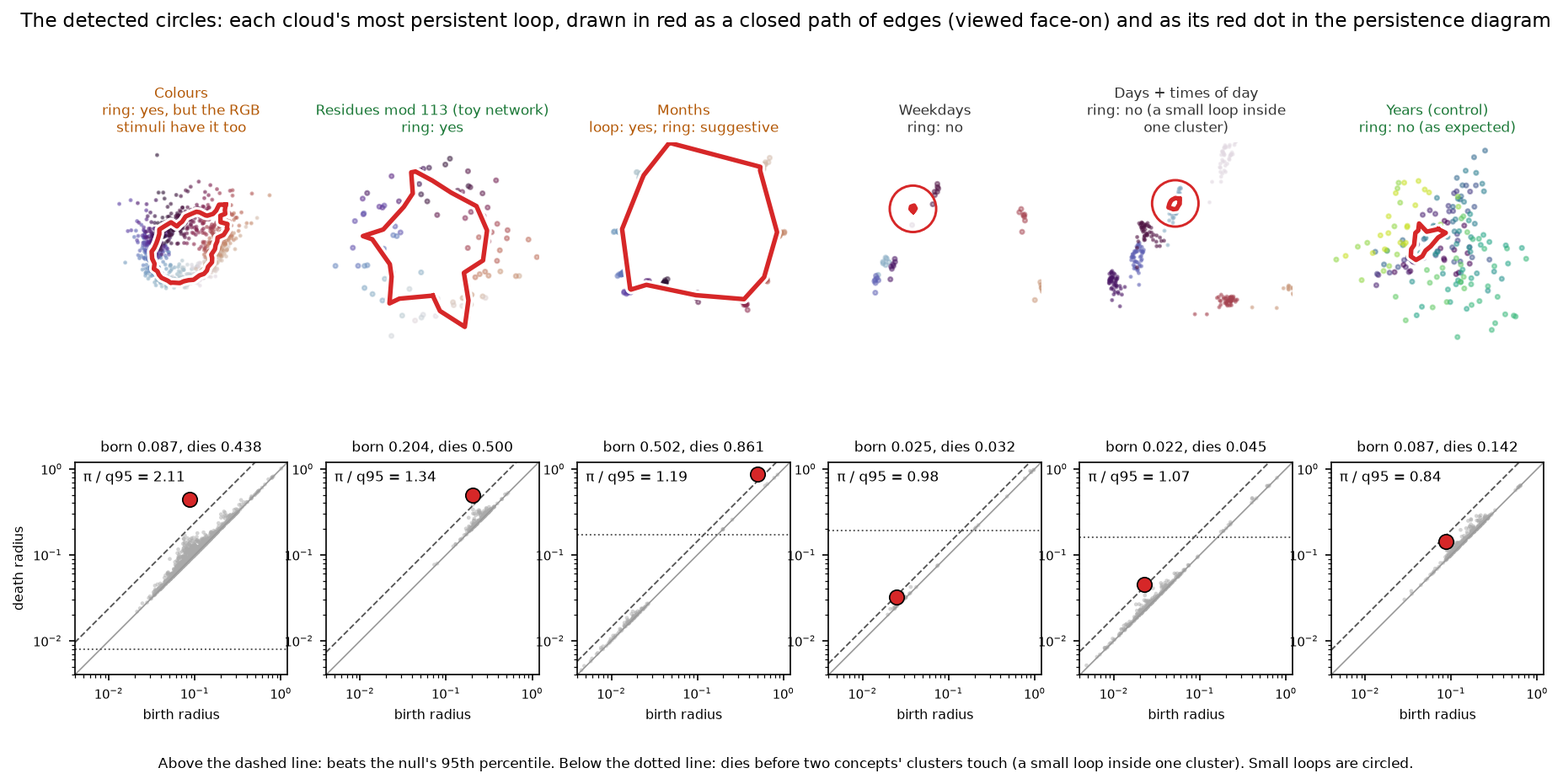
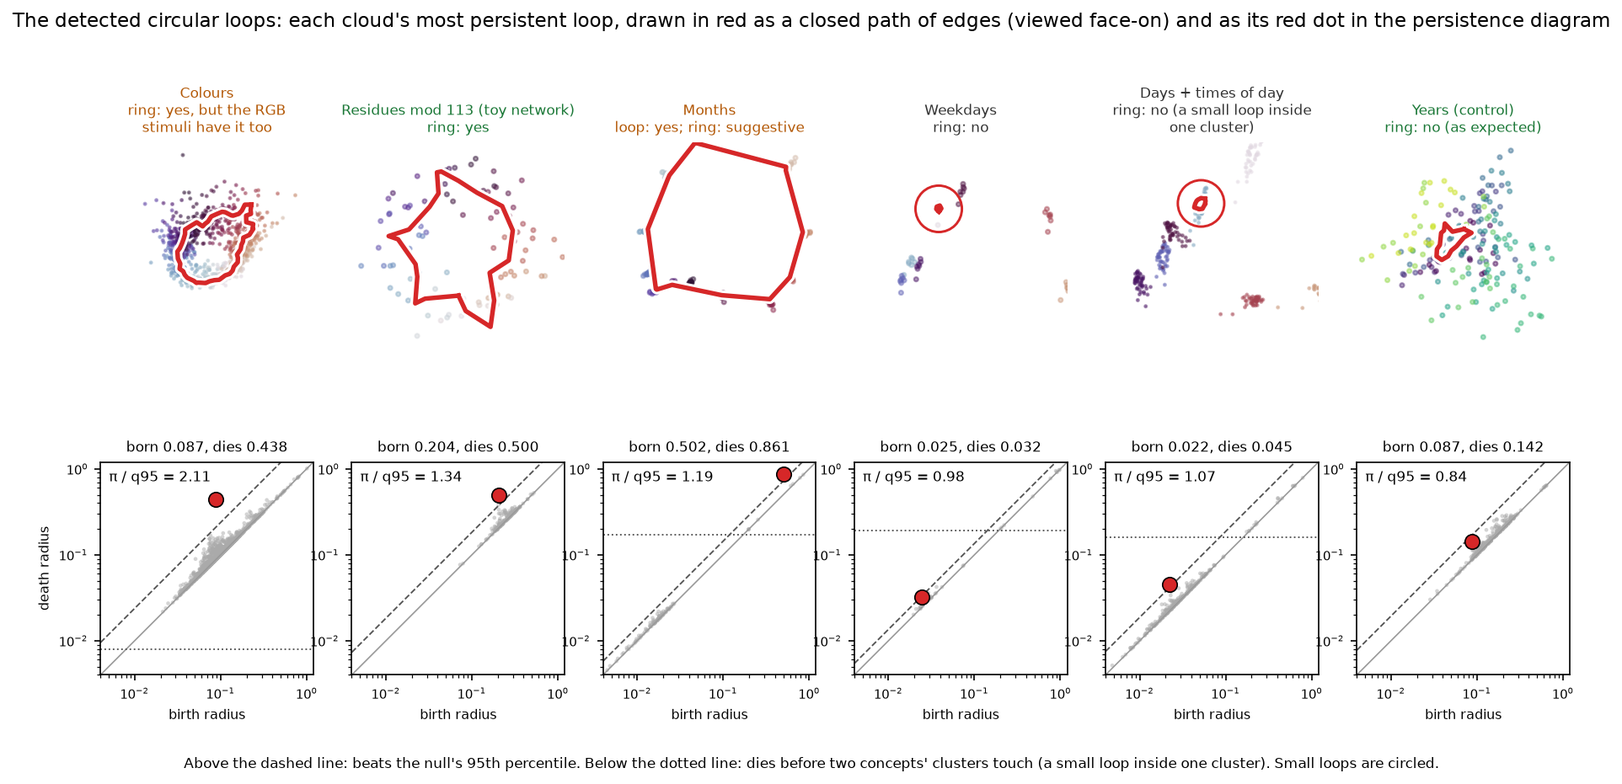
README: voids drawn explicitly like the detected loops (red shell with white halo, blue ball for the empty middle, small voids circled, red triangle in the diagram), placed right after the loops figure; 'detected circles' renamed 'detected circular loops'; glossary: the void's empty middle

diff --git a/src/neurotopo/report/figures.py b/src/neurotopo/report/figures.py
@@ -646,7 +646,7 @@ def anim_examples() -> None:
 
 
 def fig_detected_loops() -> None:
-    """The detected circles (README, near the top). For each example cloud, top: the cloud in its top-3 PCA
+    """The detected circular loops (README, near the top). For each example cloud, top: the cloud in its top-3 PCA
     coordinates with one closed path of edges carrying its most persistent loop (diagrams.alpha_h1_cycles) drawn
     in red, viewed face-on (camera along the normal of the path's best-fit plane, from an SVD of its vertices);
     a loop smaller than a tenth of the cloud is also circled so it can be found. Bottom: the persistence diagram
@@ -693,7 +693,7 @@ def fig_detected_loops() -> None:
         if j == 0:
             ap.set_ylabel("death radius", fontsize=7.5)
         ap.set_title(f"born {h1[0, 0]:.3f}, dies {h1[0, 1]:.3f}", fontsize=8)
-    fig.suptitle("The detected circles: each cloud's most persistent loop, drawn in red as a closed path of edges "
+    fig.suptitle("The detected circular loops: each cloud's most persistent loop, drawn in red as a closed path of edges "
                  "(viewed face-on) and as its red dot in the persistence diagram", fontsize=11)
     fig.text(0.5, 0.015, "Above the dashed line: beats the null's 95th percentile. Below the dotted line: dies before two "
              "concepts' clusters touch (a small loop inside one cluster). Small loops are circled.", ha="center", fontsize=8)
@@ -708,34 +708,48 @@ VOID_EXAMPLES = [("R3_tms_n6", "toy model, 6 features"), ("R3_tms_n8", "toy mode
 
 
 def fig_detected_voids() -> None:
-    """The detected voids (README, after the detected circles). For each cloud of VOID_EXAMPLES, top: the cloud in its
-    top-3 PCA coordinates with the shell of its most persistent void (diagrams.alpha_h2_voids, via examples.replay),
-    a closed surface of triangles drawn see-through in purple (points faded in dense clouds so it shows). Bottom: the
-    void (H2) persistence diagram on linear axes zoomed to the cloud's voids (void ratios are small, 1-1.5, so a fixed
-    range would squeeze every void onto the diagonal), with that void's triangle and the null's 95th-percentile line.
-    Title colour: green if the void survives Benjamini-Hochberg over the 44 void tests, orange if only p < 0.05,
-    black otherwise. Numbers: results/exp2/invariants.csv."""
-    from mpl_toolkits.mplot3d.art3d import Poly3DCollection
+    """The detected voids (README, right after the detected circular loops, in the same style). For each cloud of
+    VOID_EXAMPLES, top: the cloud in its top-3 PCA coordinates with its most persistent void drawn explicitly: the shell
+    (diagrams.alpha_h2_voids, via examples.replay), a closed surface of triangles, as red edges with a white halo over
+    faint red faces, and inside it the void's empty middle as a blue ball: centred on the circumcentre of the
+    tetrahedron that fills the void, radius death - birth, the part of the void the balls of the birth radius do not
+    cover (no point is closer to the centre than the death radius). A void smaller than a quarter of the cloud is
+    circled, and points are faded in dense clouds. Bottom: the void (H2) persistence diagram on linear axes zoomed to
+    the cloud's voids (void ratios are small, 1-1.5, so a fixed range would squeeze every void onto the diagonal),
+    with that void's red triangle and the null's 95th-percentile line. Title colour: green if the void survives
+    Benjamini-Hochberg over the 44 void tests, orange if only p < 0.05, black otherwise. Numbers:
+    results/exp2/invariants.csv. mplot3d: Poly3DCollection, Line3DCollection, plot_surface
+    (https://matplotlib.org/stable/api/toolkits/mplot3d.html)."""
+    from itertools import combinations
+    from mpl_toolkits.mplot3d.art3d import Line3DCollection, Poly3DCollection
     from neurotopo.experiments import realdata
     from neurotopo.report.examples import replay
     inv = pd.read_csv(config.path("results") / "exp2" / "invariants.csv").set_index("id")
-    purple = "#7b3294"
-    fig = plt.figure(figsize=(14, 6.4))
-    gs = fig.add_gridspec(2, len(VOID_EXAMPLES), height_ratios=[1.3, 1], hspace=0.2, wspace=0.22, top=0.86, bottom=0.12)
+    red, blue = "#d62728", "#4393c3"                                     # red as the detected loops; blue = empty space
+    u, v = np.meshgrid(np.linspace(0, 2 * np.pi, 28), np.linspace(0, np.pi, 14))
+    ball = np.stack([np.cos(u) * np.sin(v), np.sin(u) * np.sin(v), np.cos(v)])   # unit sphere, (3, 14, 28)
+    fig = plt.figure(figsize=(14, 6.6))
+    gs = fig.add_gridspec(2, len(VOID_EXAMPLES), height_ratios=[1.35, 1], hspace=0.2, wspace=0.22, top=0.86, bottom=0.13)
     for j, (d, label) in enumerate(VOID_EXAMPLES):
         y, row = realdata.cloud(d)["y"], inv.loc[d]
         rp = replay(y)                                                   # voids sorted by pi: index 0 is the top void
-        h2, shell = rp["h2"], rp["shells"][0]
+        h2, shell, centre = rp["h2"], rp["shells"][0], rp["void_centres"][0]
         p, q = float(row["p_top_void"]), float(row["q_top_void"])
         verdict, colour = ((f"void: yes (q = {q:.3f})", "#1b7837") if q < 0.05 else
                            (f"p = {p:.3f}, but q = {q:.2f} after BH", "#e08214") if p < 0.05 else
                            (f"void: no (p = {p:.2f})", "#222222"))
-        dense = len(y) > 300
+        dense, corners = len(y) > 300, y[np.unique(shell)]
+        edges = np.array(sorted({tuple(sorted(e)) for t in shell.tolist() for e in combinations(t, 2)}))
         a3 = fig.add_subplot(gs[0, j], projection="3d")
-        a3.computed_zorder = False                                       # draw the shell over the points
-        a3.scatter(*y.T, color="#333333", s=2 if dense else 14, alpha=0.15 if dense else 0.8, depthshade=False, zorder=1)
-        a3.add_collection3d(Poly3DCollection(y[shell], facecolors=purple, edgecolors="#40004b", linewidths=0.4,
-                                             alpha=0.35, zorder=2))     # (F, 3, 3): each row's 3 corners
+        a3.computed_zorder = False                                       # draw in call order: points, ball, shell
+        a3.scatter(*y.T, color="#333333", s=2 if dense else 14, alpha=0.15 if dense else 0.6, depthshade=False, zorder=1)
+        a3.plot_surface(*(centre[:, None, None] + (h2[0, 1] - h2[0, 0]) * ball), color=blue, alpha=0.9, shade=False,
+                        linewidth=0, zorder=2)                           # the empty middle, radius death - birth
+        a3.add_collection3d(Poly3DCollection(y[shell], facecolors=red, edgecolors="none", alpha=0.1, zorder=3))
+        a3.add_collection3d(Line3DCollection(y[edges], colors="white", linewidths=3.0, zorder=4))   # halo
+        a3.add_collection3d(Line3DCollection(y[edges], colors=red, linewidths=1.3, zorder=5))
+        if np.ptp(corners, axis=0).max() < 0.25 * np.ptp(y, axis=0).max():   # small void: circle it
+            a3.scatter(*corners.mean(0), s=900, facecolors="none", edgecolors=red, linewidths=1.4, zorder=6)
         lim = float(np.linalg.norm(y, axis=1).max())                    # largest radius: no corner is clipped
         a3.set_xlim(-lim, lim)
         a3.set_ylim(-lim, lim)
@@ -749,7 +763,7 @@ def fig_detected_voids() -> None:
         ap.plot([lo, hi], [lo, hi], color="#999", lw=0.8)
         ap.plot([lo, hi / q95], [lo * q95, hi], color="#555", ls="--", lw=0.9)
         ap.scatter(h2[:, 0], h2[:, 1], s=5, marker="^", color="#aaaaaa", alpha=0.5, edgecolors="none")
-        ap.scatter([h2[0, 0]], [h2[0, 1]], s=80, marker="^", color=purple, edgecolors="k", linewidths=0.8, zorder=4)
+        ap.scatter([h2[0, 0]], [h2[0, 1]], s=80, marker="^", color=red, edgecolors="k", linewidths=0.8, zorder=4)
         kept = int(np.floor(100 * row["void_freq"] + 0.5))             # half-up, as numbers.py rounds the README's %
         ap.text(0.96, 0.04, f"π / q95 = {row['top_pi2'] / q95:.2f}\nkept in {kept}% of subsamples",
                 transform=ap.transAxes, fontsize=7.5, va="bottom", ha="right")   # below the diagonal: always empty
@@ -761,9 +775,11 @@ def fig_detected_voids() -> None:
         if j == 0:
             ap.set_ylabel("death radius", fontsize=7.5)
         ap.set_title(f"{len(shell)} faces; born {h2[0, 0]:.3f}, dies {h2[0, 1]:.3f}", fontsize=8)
-    fig.suptitle("The detected voids: each cloud's most persistent void, drawn as its shell (a closed surface of "
-                 "triangles) and as its purple triangle in the void persistence diagram", fontsize=11)
-    fig.text(0.5, 0.015, "Above the dashed line: beats the null's 95th percentile (p < 0.05). q: Benjamini-Hochberg over "
-             "the 44 void tests. Subsamples: 200 random 80% subsamples. Diagram axes are zoomed per cloud.",
-             ha="center", fontsize=8)
+    fig.suptitle("The detected voids: each cloud's most persistent void, drawn as its shell (red, a closed surface of "
+                 "triangles) around its empty middle (blue)\nand as its red triangle in the void persistence diagram",
+                 fontsize=11)
+    fig.text(0.5, 0.015, "Blue ball: radius death - birth around the void's centre, still empty when the void closes. "
+             "Above the dashed line: beats the null's 95th percentile (p < 0.05).\nq: Benjamini-Hochberg over the 44 "
+             "void tests. Subsamples: 200 random 80% subsamples. Diagram axes are zoomed per cloud. Small voids are "
+             "circled.", ha="center", fontsize=8)
     save(fig, "fig_detected_voids")

diff --git a/README.template.md b/README.template.md
@@ -14,13 +14,28 @@ For each concept we ask two questions:
 
 A loop alone does not prove a hole. The loop test also flags many hole-free shapes, such as curved sheets and caps ([third audit, D9](reports/exp8_audit3.md)). So we call a loop a **ring** only when the concept also goes around it once.
 
-![The detected circles: each example cloud's most persistent loop drawn as a red ring, and its dot in the persistence diagram](docs/figures/fig_detected_loops.png)
+![The detected circular loops: each example cloud's most persistent loop drawn as a red ring, and its dot in the persistence diagram](docs/figures/fig_detected_loops.png)
 
-*The detected circles.* For each example cloud, the red ring is the cloud's most persistent loop: one closed path of edges that carries it ([representative loop](docs/glossary.md#representative-loop)), seen face-on.
+*The detected circular loops.* For each example cloud, the red ring is the cloud's most persistent loop: one closed path of edges that carries it ([representative loop](docs/glossary.md#representative-loop)), seen face-on.
 - **Bottom:** the same loop as a red dot (birth radius, death radius) in the persistence diagram.
 - **Colours, residues and months:** a large ring that runs through the concepts.
 - **Weekdays and days with times:** the most persistent loop is a small loop inside one cluster (circled). It dies below the dotted line, before two days' clusters touch.
 - **Years:** a small loop that does not beat the null (below the dashed line).
+
+![The detected voids: each cloud's most persistent void drawn as a red shell around its empty middle (a blue ball), and its triangle in the void persistence diagram](docs/figures/fig_detected_voids.png)
+
+*The detected voids*, drawn the same way. A void is an empty region walled in by a closed surface, like the inside of a hollow ball. It is the next kind of hole after a loop (an H2 bar instead of an H1 bar).
+- **Top:** the red edges are the shell of each cloud's most persistent void: one closed surface of triangles that carries it ([representative void](docs/glossary.md#representative-void)).
+  - The blue ball is the void's empty middle. No point is closer to its centre than the void's death radius, so when the void closes (at its birth radius) a ball of radius death − birth there is still not covered.
+- **Bottom:** the same void as a red triangle in the void persistence diagram (axes zoomed per cloud).
+- **Toy models of superposition** ([Elhage et al. 2022](https://transformer-circuits.pub/2022/toy_model/index.html)), green: each point is one feature's direction in a 3-dimensional hidden layer.
+  - They are the only {{exp2.n_void_q05}} of the 44 clouds whose most persistent void survives Benjamini–Hochberg (q = {{exp2.tmsn6.q_void:3}}). The features sit on or near the corners of a polytope, which walls in a void.
+  - With 6 features the shell is the 8 faces of an octahedron. Its persistence ratio π = {{exp2.tmsn6.top_pi2:3}} is close to that of a regular octahedron, √(3/2) ≈ 1.225.
+  - The voids of 8 and 20 features come back in {{exp2.tmsn8.void_freq_pct}}% and {{exp2.tmsn20.void_freq_pct}}% of random 80% subsamples. With 6 features a subsample keeps only 5 of the 6 corners, and the void came back in {{exp2.tmsn6.void_freq_pct}}% of them.
+  - These clouds have only 6–20 points and were [preregistered](reports/preregistration.md) as exploratory, descriptive sets.
+- **GPT-2 positions at random init**, orange: a small void (circled) with p = {{exp2.wposinit.p_top_void}}, but q = {{exp2.wposinit.q_void:2}} after the correction, and it comes back in only {{exp2.wposinit.void_freq_pct}}% of subsamples. We read it as a chance hit among 44 tests.
+- **Trained GPT-2 positions**, black: the shape fitter calls this cloud a closed sphere, which has a void, but the data has none. Its most persistent void is a thin one (π = {{exp2.wpos.top_pi2:2}}, below the null's 95th percentile of {{exp2.wpos.null_q95_pi2:2}}). The positions trace a spiral curve, not a surface.
+- **None of the other {{exp2.trained_n}} trained-model clouds** (the language-model concepts and the grokking network) has a significant void, even before correction ({{exp2.trained_voids}} at p < 0.05).
 - Explore any loop or void of any of the 44 clouds in the [explorer](https://burnycoder.github.io/topology-of-neural-geometry-in-llm-mechanistic-interpretability/): set the radius, then pick a loop or void, or click its marker. Voids are drawn as see-through shells.
 
 ![Positive and negative examples](docs/figures/fig_examples.png)
@@ -42,19 +57,6 @@ A loop alone does not prove a hole. The loop test also flags many hole-free shap
   - Dots above the dashed red line beat the null's 95th percentile.
   - Dots below the dotted line die before two concepts' clusters touch, so they lie inside one cluster.
 - **Try it yourself** with the radius slider in the [explorer](https://burnycoder.github.io/topology-of-neural-geometry-in-llm-mechanistic-interpretability/) (all 44 clouds, with their loops and voids; you can also show one at a time), or, together with the null distribution and the travel around the hole, on the [examples page](https://burnycoder.github.io/topology-of-neural-geometry-in-llm-mechanistic-interpretability/examples.html). Every term is defined in [docs/glossary.md](docs/glossary.md), which the explorer also shows.
-
-![The detected voids: each cloud's most persistent void drawn as a purple shell, and its triangle in the void persistence diagram](docs/figures/fig_detected_voids.png)
-
-*The detected voids.* A void is an empty region walled in by a closed surface, like the inside of a hollow ball. It is the next kind of hole after a loop (an H2 bar instead of an H1 bar). The purple surface is the shell of each cloud's most persistent void ([representative void](docs/glossary.md#representative-void)).
-- **Toy models of superposition** ([Elhage et al. 2022](https://transformer-circuits.pub/2022/toy_model/index.html)), green: each point is one feature's direction in a 3-dimensional hidden layer.
-  - They are the only {{exp2.n_void_q05}} of the 44 clouds whose most persistent void survives Benjamini–Hochberg (q = {{exp2.tmsn6.q_void:3}}). The features sit on or near the corners of a polytope, which walls in a void.
-  - With 6 features the shell is the 8 faces of an octahedron. Its persistence ratio π = {{exp2.tmsn6.top_pi2:3}} is close to that of a regular octahedron, √(3/2) ≈ 1.225.
-  - The voids of 8 and 20 features come back in {{exp2.tmsn8.void_freq_pct}}% and {{exp2.tmsn20.void_freq_pct}}% of random 80% subsamples. With 6 features a subsample keeps only 5 of the 6 corners, and the void came back in {{exp2.tmsn6.void_freq_pct}}% of them.
-  - These clouds have only 6–20 points and were [preregistered](reports/preregistration.md) as exploratory, descriptive sets.
-- **GPT-2 positions at random init**, orange: a small void with p = {{exp2.wposinit.p_top_void}}, but q = {{exp2.wposinit.q_void:2}} after the correction, and it comes back in only {{exp2.wposinit.void_freq_pct}}% of subsamples. We read it as a chance hit among 44 tests.
-- **Trained GPT-2 positions**, black: the shape fitter calls this cloud a closed sphere, which has a void, but the data has none. Its most persistent void has π = {{exp2.wpos.top_pi2:2}}, below the null's 95th percentile ({{exp2.wpos.null_q95_pi2:2}}). The positions trace a spiral curve, not a surface.
-- **None of the other {{exp2.trained_n}} trained-model clouds** (the language-model concepts and the grokking network) has a significant void, even before correction ({{exp2.trained_voids}} at p < 0.05).
-- Every void of every cloud can be explored in the [explorer](https://burnycoder.github.io/topology-of-neural-geometry-in-llm-mechanistic-interpretability/).
 
 **What worked**
 - **Colours form a ring that hue goes around once, but the stimuli already have that ring.**

diff --git a/README.md b/README.md
@@ -14,13 +14,28 @@ For each concept we ask two questions:
 
 A loop alone does not prove a hole. The loop test also flags many hole-free shapes, such as curved sheets and caps ([third audit, D9](reports/exp8_audit3.md)). So we call a loop a **ring** only when the concept also goes around it once.
 
-![The detected circles: each example cloud's most persistent loop drawn as a red ring, and its dot in the persistence diagram](docs/figures/fig_detected_loops.png)
+![The detected circular loops: each example cloud's most persistent loop drawn as a red ring, and its dot in the persistence diagram](docs/figures/fig_detected_loops.png)
 
-*The detected circles.* For each example cloud, the red ring is the cloud's most persistent loop: one closed path of edges that carries it ([representative loop](docs/glossary.md#representative-loop)), seen face-on.
+*The detected circular loops.* For each example cloud, the red ring is the cloud's most persistent loop: one closed path of edges that carries it ([representative loop](docs/glossary.md#representative-loop)), seen face-on.
 - **Bottom:** the same loop as a red dot (birth radius, death radius) in the persistence diagram.
 - **Colours, residues and months:** a large ring that runs through the concepts.
 - **Weekdays and days with times:** the most persistent loop is a small loop inside one cluster (circled). It dies below the dotted line, before two days' clusters touch.
 - **Years:** a small loop that does not beat the null (below the dashed line).
+
+![The detected voids: each cloud's most persistent void drawn as a red shell around its empty middle (a blue ball), and its triangle in the void persistence diagram](docs/figures/fig_detected_voids.png)
+
+*The detected voids*, drawn the same way. A void is an empty region walled in by a closed surface, like the inside of a hollow ball. It is the next kind of hole after a loop (an H2 bar instead of an H1 bar).
+- **Top:** the red edges are the shell of each cloud's most persistent void: one closed surface of triangles that carries it ([representative void](docs/glossary.md#representative-void)).
+  - The blue ball is the void's empty middle. No point is closer to its centre than the void's death radius, so when the void closes (at its birth radius) a ball of radius death − birth there is still not covered.
+- **Bottom:** the same void as a red triangle in the void persistence diagram (axes zoomed per cloud).
+- **Toy models of superposition** ([Elhage et al. 2022](https://transformer-circuits.pub/2022/toy_model/index.html)), green: each point is one feature's direction in a 3-dimensional hidden layer.
+  - They are the only 3 of the 44 clouds whose most persistent void survives Benjamini–Hochberg (q = 0.015). The features sit on or near the corners of a polytope, which walls in a void.
+  - With 6 features the shell is the 8 faces of an octahedron. Its persistence ratio π = 1.224 is close to that of a regular octahedron, √(3/2) ≈ 1.225.
+  - The voids of 8 and 20 features come back in 69% and 77% of random 80% subsamples. With 6 features a subsample keeps only 5 of the 6 corners, and the void came back in 0% of them.
+  - These clouds have only 6–20 points and were [preregistered](reports/preregistration.md) as exploratory, descriptive sets.
+- **GPT-2 positions at random init**, orange: a small void (circled) with p = 0.020, but q = 0.18 after the correction, and it comes back in only 1% of subsamples. We read it as a chance hit among 44 tests.
+- **Trained GPT-2 positions**, black: the shape fitter calls this cloud a closed sphere, which has a void, but the data has none. Its most persistent void is a thin one (π = 1.02, below the null's 95th percentile of 1.39). The positions trace a spiral curve, not a surface.
+- **None of the other 14 trained-model clouds** (the language-model concepts and the grokking network) has a significant void, even before correction (0 at p < 0.05).
 - Explore any loop or void of any of the 44 clouds in the [explorer](https://burnycoder.github.io/topology-of-neural-geometry-in-llm-mechanistic-interpretability/): set the radius, then pick a loop or void, or click its marker. Voids are drawn as see-through shells.
 
 ![Positive and negative examples](docs/figures/fig_examples.png)
@@ -42,19 +57,6 @@ A loop alone does not prove a hole. The loop test also flags many hole-free shap
   - Dots above the dashed red line beat the null's 95th percentile.
   - Dots below the dotted line die before two concepts' clusters touch, so they lie inside one cluster.
 - **Try it yourself** with the radius slider in the [explorer](https://burnycoder.github.io/topology-of-neural-geometry-in-llm-mechanistic-interpretability/) (all 44 clouds, with their loops and voids; you can also show one at a time), or, together with the null distribution and the travel around the hole, on the [examples page](https://burnycoder.github.io/topology-of-neural-geometry-in-llm-mechanistic-interpretability/examples.html). Every term is defined in [docs/glossary.md](docs/glossary.md), which the explorer also shows.
-
-![The detected voids: each cloud's most persistent void drawn as a purple shell, and its triangle in the void persistence diagram](docs/figures/fig_detected_voids.png)
-
-*The detected voids.* A void is an empty region walled in by a closed surface, like the inside of a hollow ball. It is the next kind of hole after a loop (an H2 bar instead of an H1 bar). The purple surface is the shell of each cloud's most persistent void ([representative void](docs/glossary.md#representative-void)).
-- **Toy models of superposition** ([Elhage et al. 2022](https://transformer-circuits.pub/2022/toy_model/index.html)), green: each point is one feature's direction in a 3-dimensional hidden layer.
-  - They are the only 3 of the 44 clouds whose most persistent void survives Benjamini–Hochberg (q = 0.015). The features sit on or near the corners of a polytope, which walls in a void.
-  - With 6 features the shell is the 8 faces of an octahedron. Its persistence ratio π = 1.224 is close to that of a regular octahedron, √(3/2) ≈ 1.225.
-  - The voids of 8 and 20 features come back in 69% and 77% of random 80% subsamples. With 6 features a subsample keeps only 5 of the 6 corners, and the void came back in 0% of them.
-  - These clouds have only 6–20 points and were [preregistered](reports/preregistration.md) as exploratory, descriptive sets.
-- **GPT-2 positions at random init**, orange: a small void with p = 0.020, but q = 0.18 after the correction, and it comes back in only 1% of subsamples. We read it as a chance hit among 44 tests.
-- **Trained GPT-2 positions**, black: the shape fitter calls this cloud a closed sphere, which has a void, but the data has none. Its most persistent void has π = 1.02, below the null's 95th percentile (1.39). The positions trace a spiral curve, not a surface.
-- **None of the other 14 trained-model clouds** (the language-model concepts and the grokking network) has a significant void, even before correction (0 at p < 0.05).
-- Every void of every cloud can be explored in the [explorer](https://burnycoder.github.io/topology-of-neural-geometry-in-llm-mechanistic-interpretability/).
 
 **What worked**
 - **Colours form a ring that hue goes around once, but the stimuli already have that ring.**

diff --git a/docs/glossary.md b/docs/glossary.md
@@ -106,6 +106,7 @@ One closed path of edges that carries a given loop. The site and the README anim
 One closed surface of triangles that encloses a given void (an H2 bar). The explorer draws it as a see-through shell in the void's own colour while the void is alive, so each triangle in the persistence diagram can be matched with a shell in the cloud.
 - In ℝ³ a void is an empty region of space walled in by the complex (Alexander duality; Edelsbrunner & Harer 2010, *Computational Topology*, ch. V). The region is found just after the triangle that closes the void enters: start in the tetrahedron whose entry fills the void (both come from GUDHI's persistence pairs) and move to neighbouring tetrahedra through triangles that have not entered yet. The triangles where this stops are the shell.
 - Every shell triangle is in the complex when the void is born, and the shell is filled in exactly when that tetrahedron enters, so it carries the void for its whole bar.
+- **The void's empty middle** (the blue ball in the README's void figure): the centre of the sphere through that tetrahedron's 4 corners. No point lies inside that sphere (a Delaunay property), so no point is closer to the centre than the death radius d. At the birth radius b, a ball of radius d − b around the centre is therefore still uncovered, and the centre is the last place the growing balls reach.
 - A void has many such shells; this one is for display, and the statistics never use it.
 
 ### Persistence ratio pi
